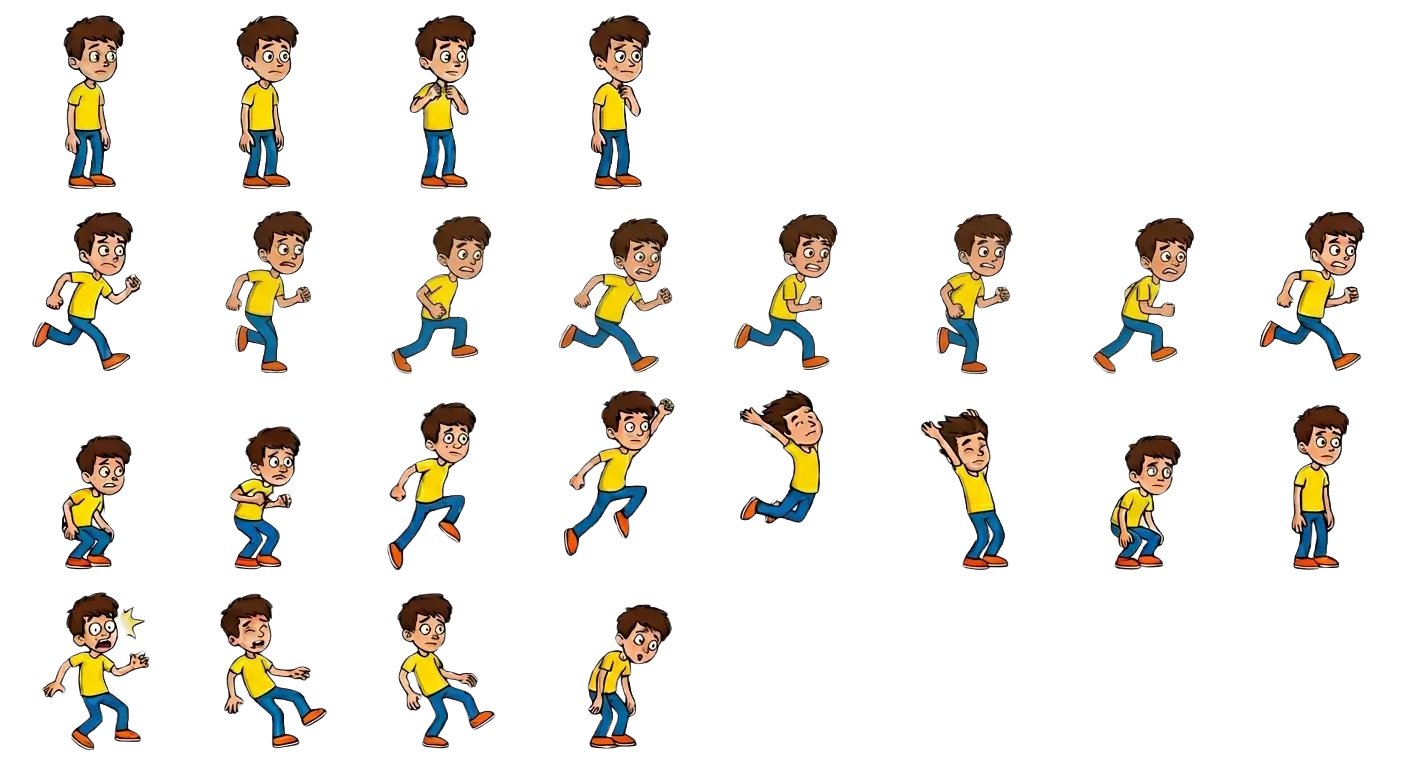
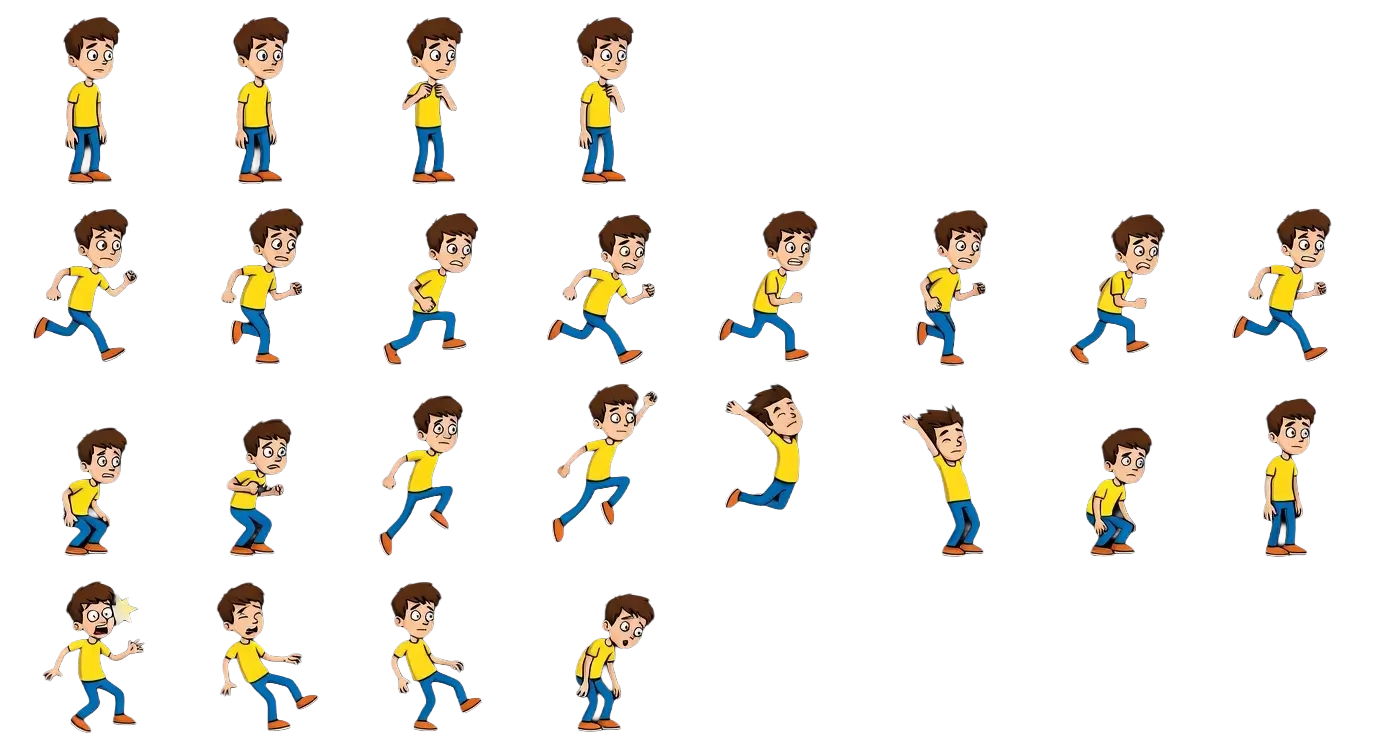
fix: player animation sheet quality

diff --git a/src/game/objects/Player.ts b/src/game/objects/Player.ts
@@ -2,8 +2,8 @@ import Phaser from 'phaser';
 
 type PlayerState = 'idle' | 'running' | 'jumping' | 'damaged';
 
-// Frame sheet: 176x192 per frame, 8 cols x 4 rows
-const FRAME_H = 192;
+// Frame sheet: 172x188 per frame, 8 cols x 4 rows
+const FRAME_H = 188;
 
 export class Player extends Phaser.Physics.Arcade.Sprite {
   private currentState: PlayerState = 'idle';
@@ -26,10 +26,10 @@ export class Player extends Phaser.Physics.Arcade.Sprite {
 
     this.jumpVelocity = -(h * 1.05);
 
-    // Body: character ~80px wide, ~160px tall, centered, feet at frame bottom
+    // Body: character ~80px wide, ~158px tall, centered, feet at frame bottom
     const body = this.body as Phaser.Physics.Arcade.Body;
-    body.setSize(80, 160);
-    body.setOffset(48, 32); // x: (176-80)/2=48, y: 192-160=32 → bottom flush
+    body.setSize(80, 158);
+    body.setOffset(46, 30); // x: (172-80)/2=46, y: 188-158=30 → bottom flush
 
     this.createAnimations();
     this.play('player-idle');

diff --git a/src/game/scenes/BootScene.ts b/src/game/scenes/BootScene.ts
@@ -23,8 +23,8 @@ import damageSfx from '../../../audio/damage.mp3';
 
 const PLAYER_COLS = 8;
 const PLAYER_ROWS = 4;
-const PLAYER_FW = 176;
-const PLAYER_FH = 192;
+const PLAYER_FW = 172;
+const PLAYER_FH = 188;
 
 export class BootScene extends Phaser.Scene {
   constructor() {
